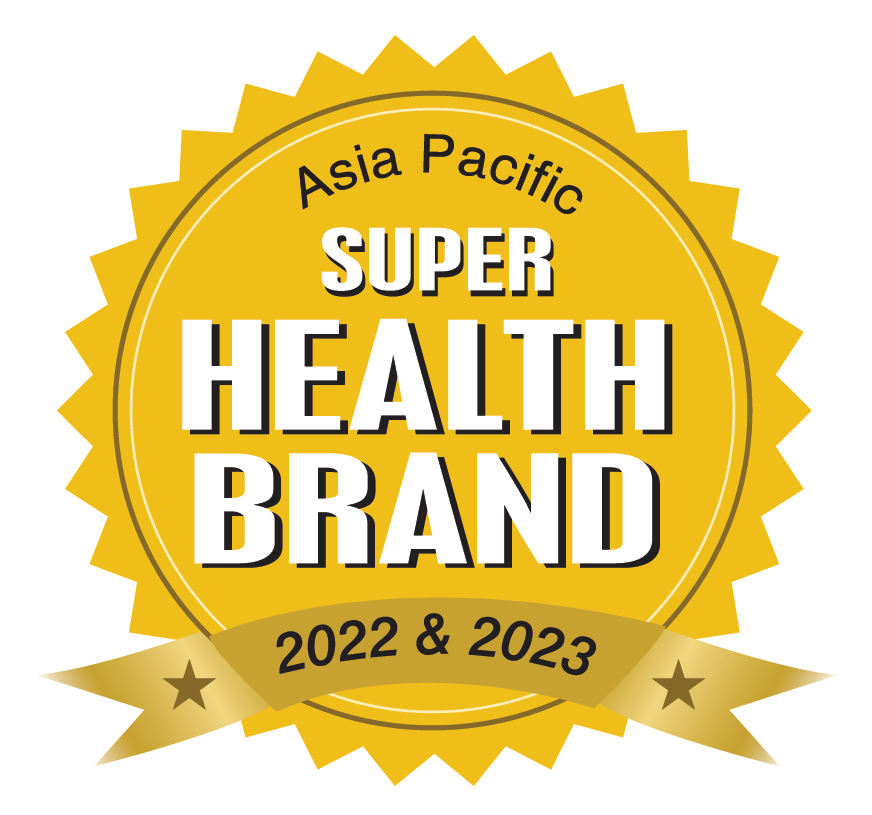
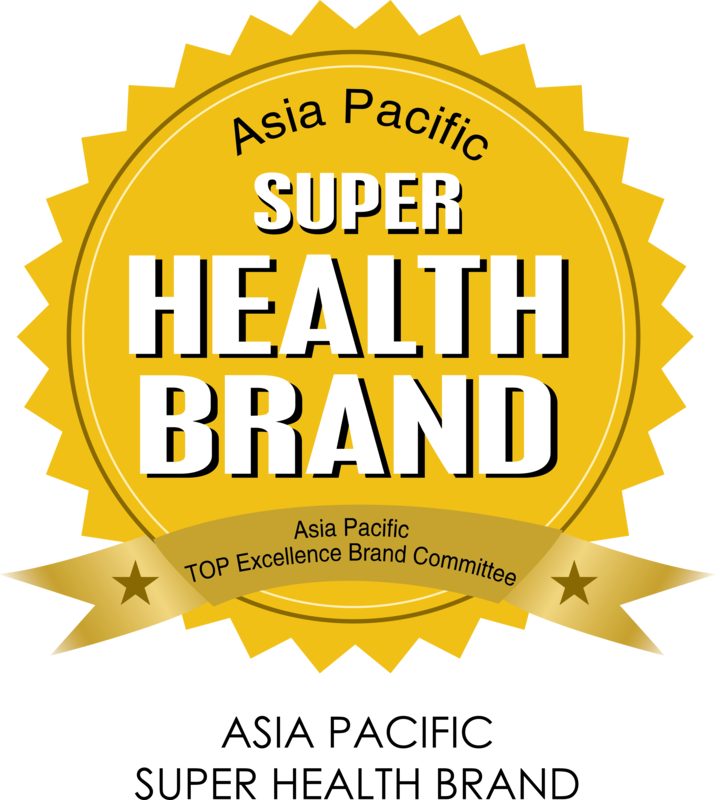
fix(miwako-a-plus): update Asia Pacific Super Health Brand badge image and award period to 2019-2021

diff --git a/page-miwako-a-plus.php b/page-miwako-a-plus.php
@@ -405,7 +405,7 @@ get_header(); ?>
                     <div
                         class="w-22 h-22 sm:w-28 sm:h-28 lg:w-32 lg:h-32 shrink-0 flex items-center justify-center group-hover:scale-105 transition-transform duration-300">
                         <img src="<?php echo esc_url(get_template_directory_uri() . '/images/badges/badge-health-brand.webp'); ?>"
-                            alt="Chứng nhận Asia Pacific Super Health Brand 2022 &amp; 2023"
+                            alt="Chứng nhận giải thưởng Asia Pacific Super Health Brand 2019–2021"
                             class="max-h-full max-w-full object-contain" loading="lazy" />
                     </div>
                     <div class="flex-1 flex flex-col justify-between h-full text-center sm:text-left">
@@ -418,14 +418,12 @@ get_header(); ?>
                                 ASIA PACIFIC SUPER HEALTH BRAND
                             </h3>
                             <p class="text-xs sm:text-sm lg:text-base text-slate-700 leading-relaxed mb-3 sm:mb-4">
-                                Theo chứng nhận giải thưởng uy tín khu vực Châu Á - Thái Bình Dương (Asia Pacific Super
-                                Health Brand 2022 &amp; 2023), ghi nhận tiêu chuẩn chất lượng và sự tin cậy của thương
-                                hiệu Dale &amp; Cecil đối với các giải pháp dinh dưỡng thực vật lành tính.
+                                Đạt chứng nhận giải thưởng Asia Pacific Super Health Brand (Thương hiệu tiêu biểu Châu Á - Thái Bình Dương) giai đoạn 2019–2021, ghi nhận tiêu chuẩn chất lượng và sự tin cậy của Dale &amp; Cecil đối với các giải pháp dinh dưỡng thực vật lành tính.
                             </p>
                         </div>
                         <div
                             class="pt-3 sm:pt-4 border-t border-slate-200/60 flex items-center justify-between text-xs sm:text-sm font-dom mt-auto">
-                            <span class="text-amber-800 uppercase">SUPER HEALTH BRAND 2022 &amp; 2023</span>
+                            <span class="text-amber-800 uppercase">SUPER HEALTH BRAND 2019–2021</span>
                             <span class="text-slate-500 font-sans text-xs">Chứng nhận khu vực</span>
                         </div>
                     </div>
